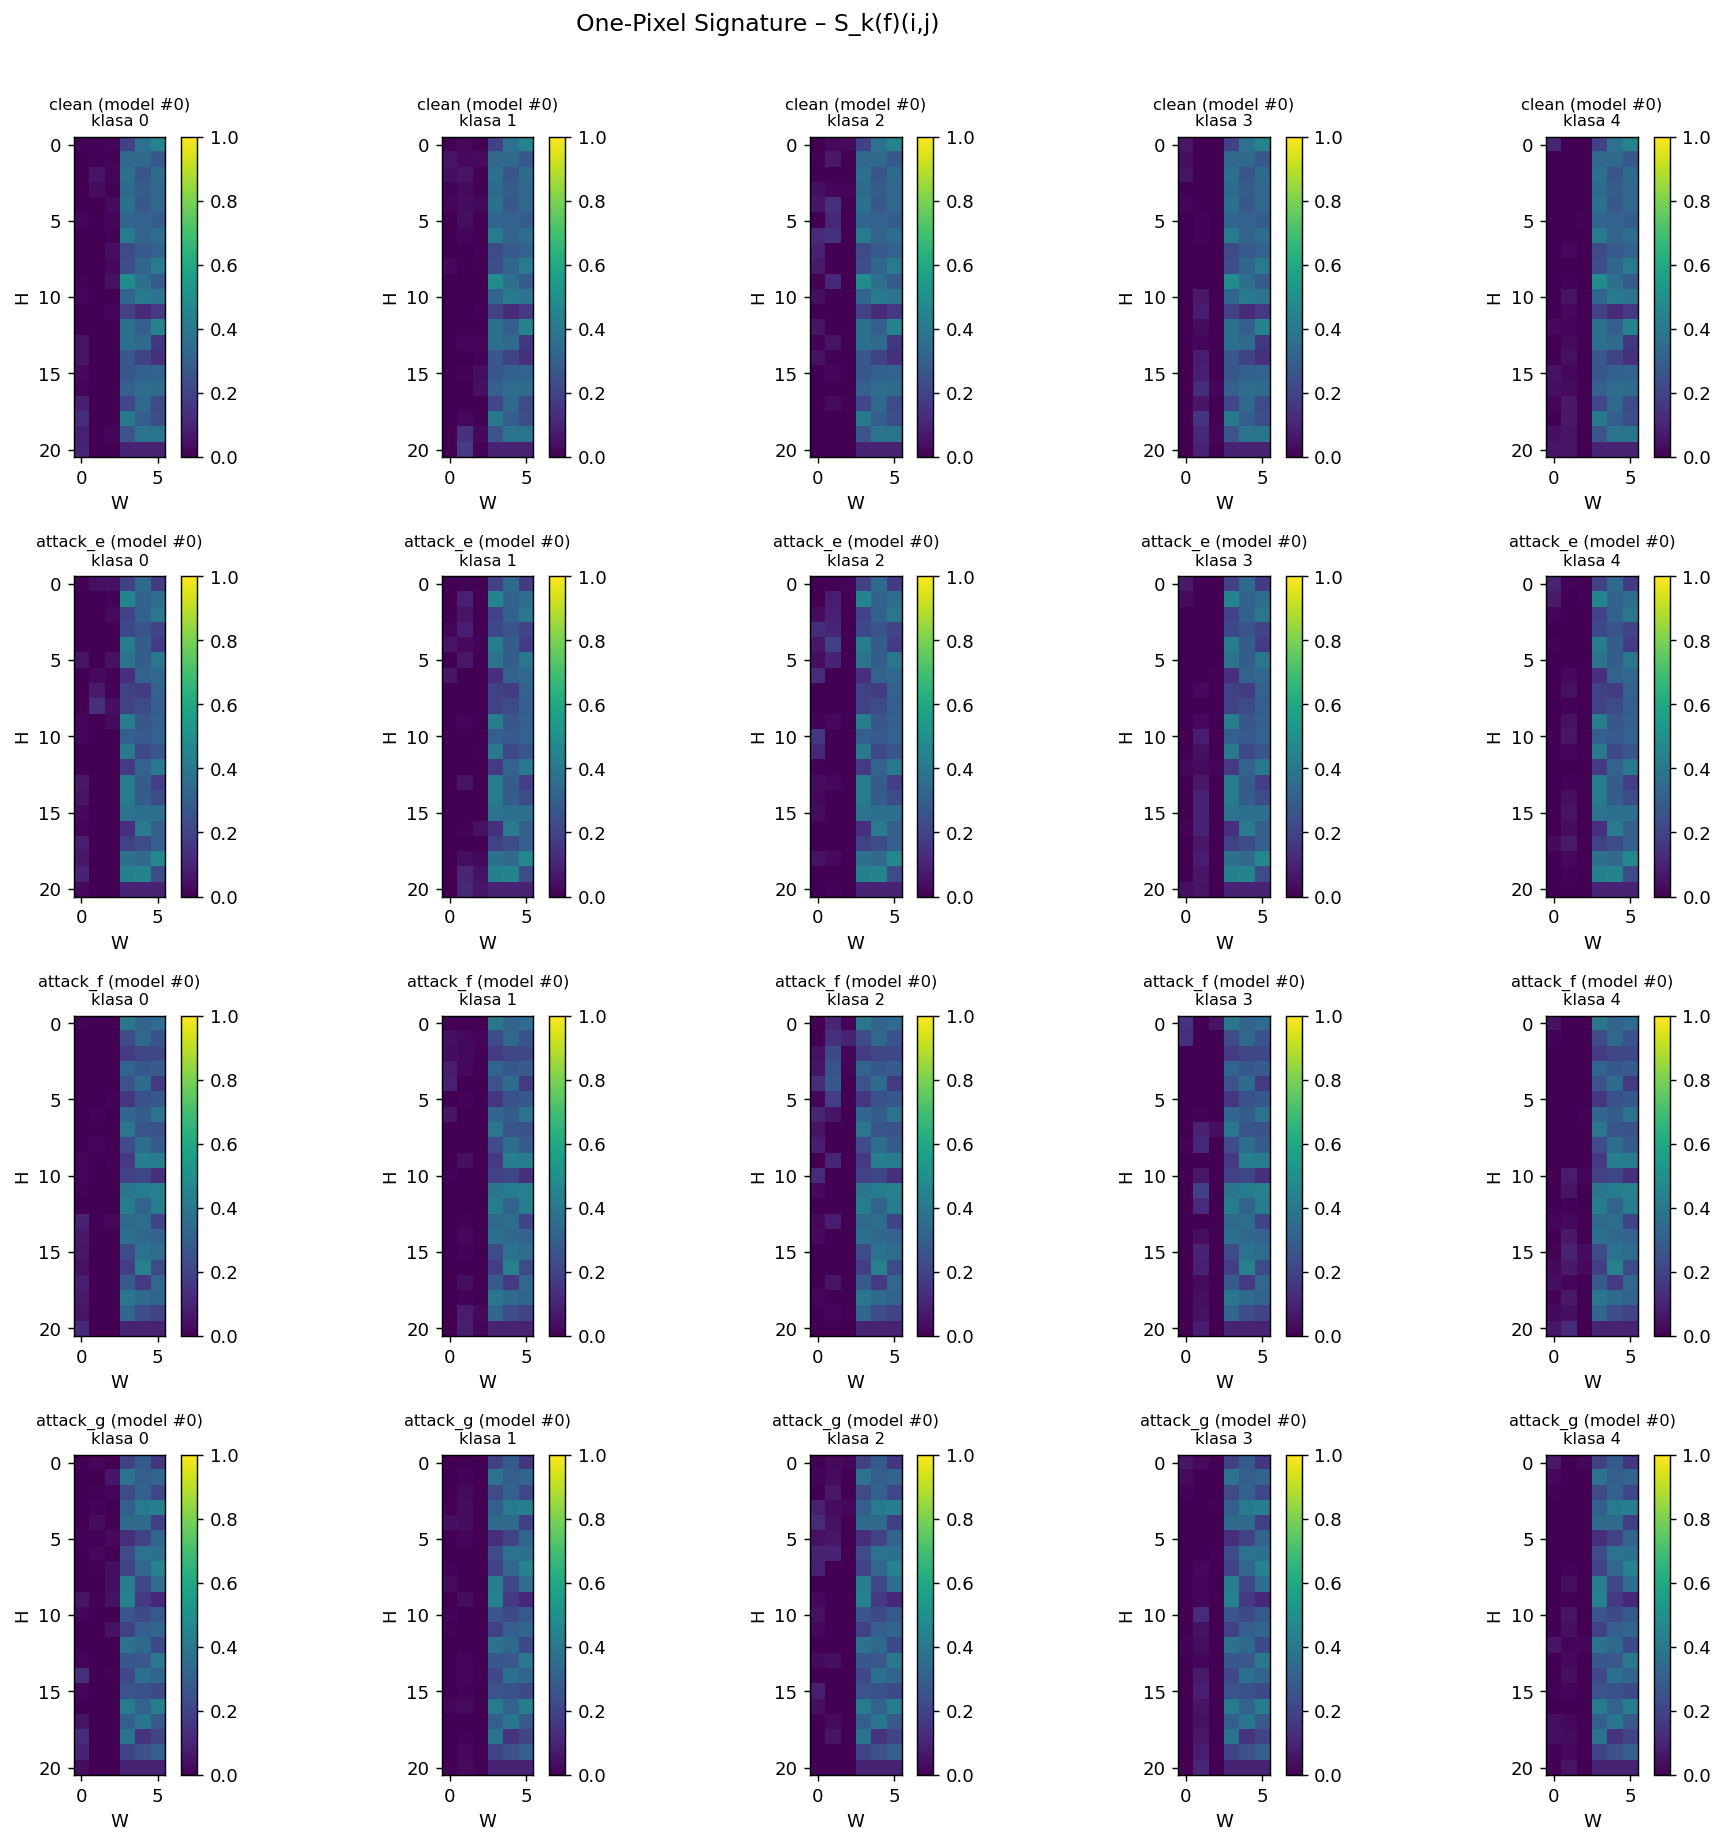
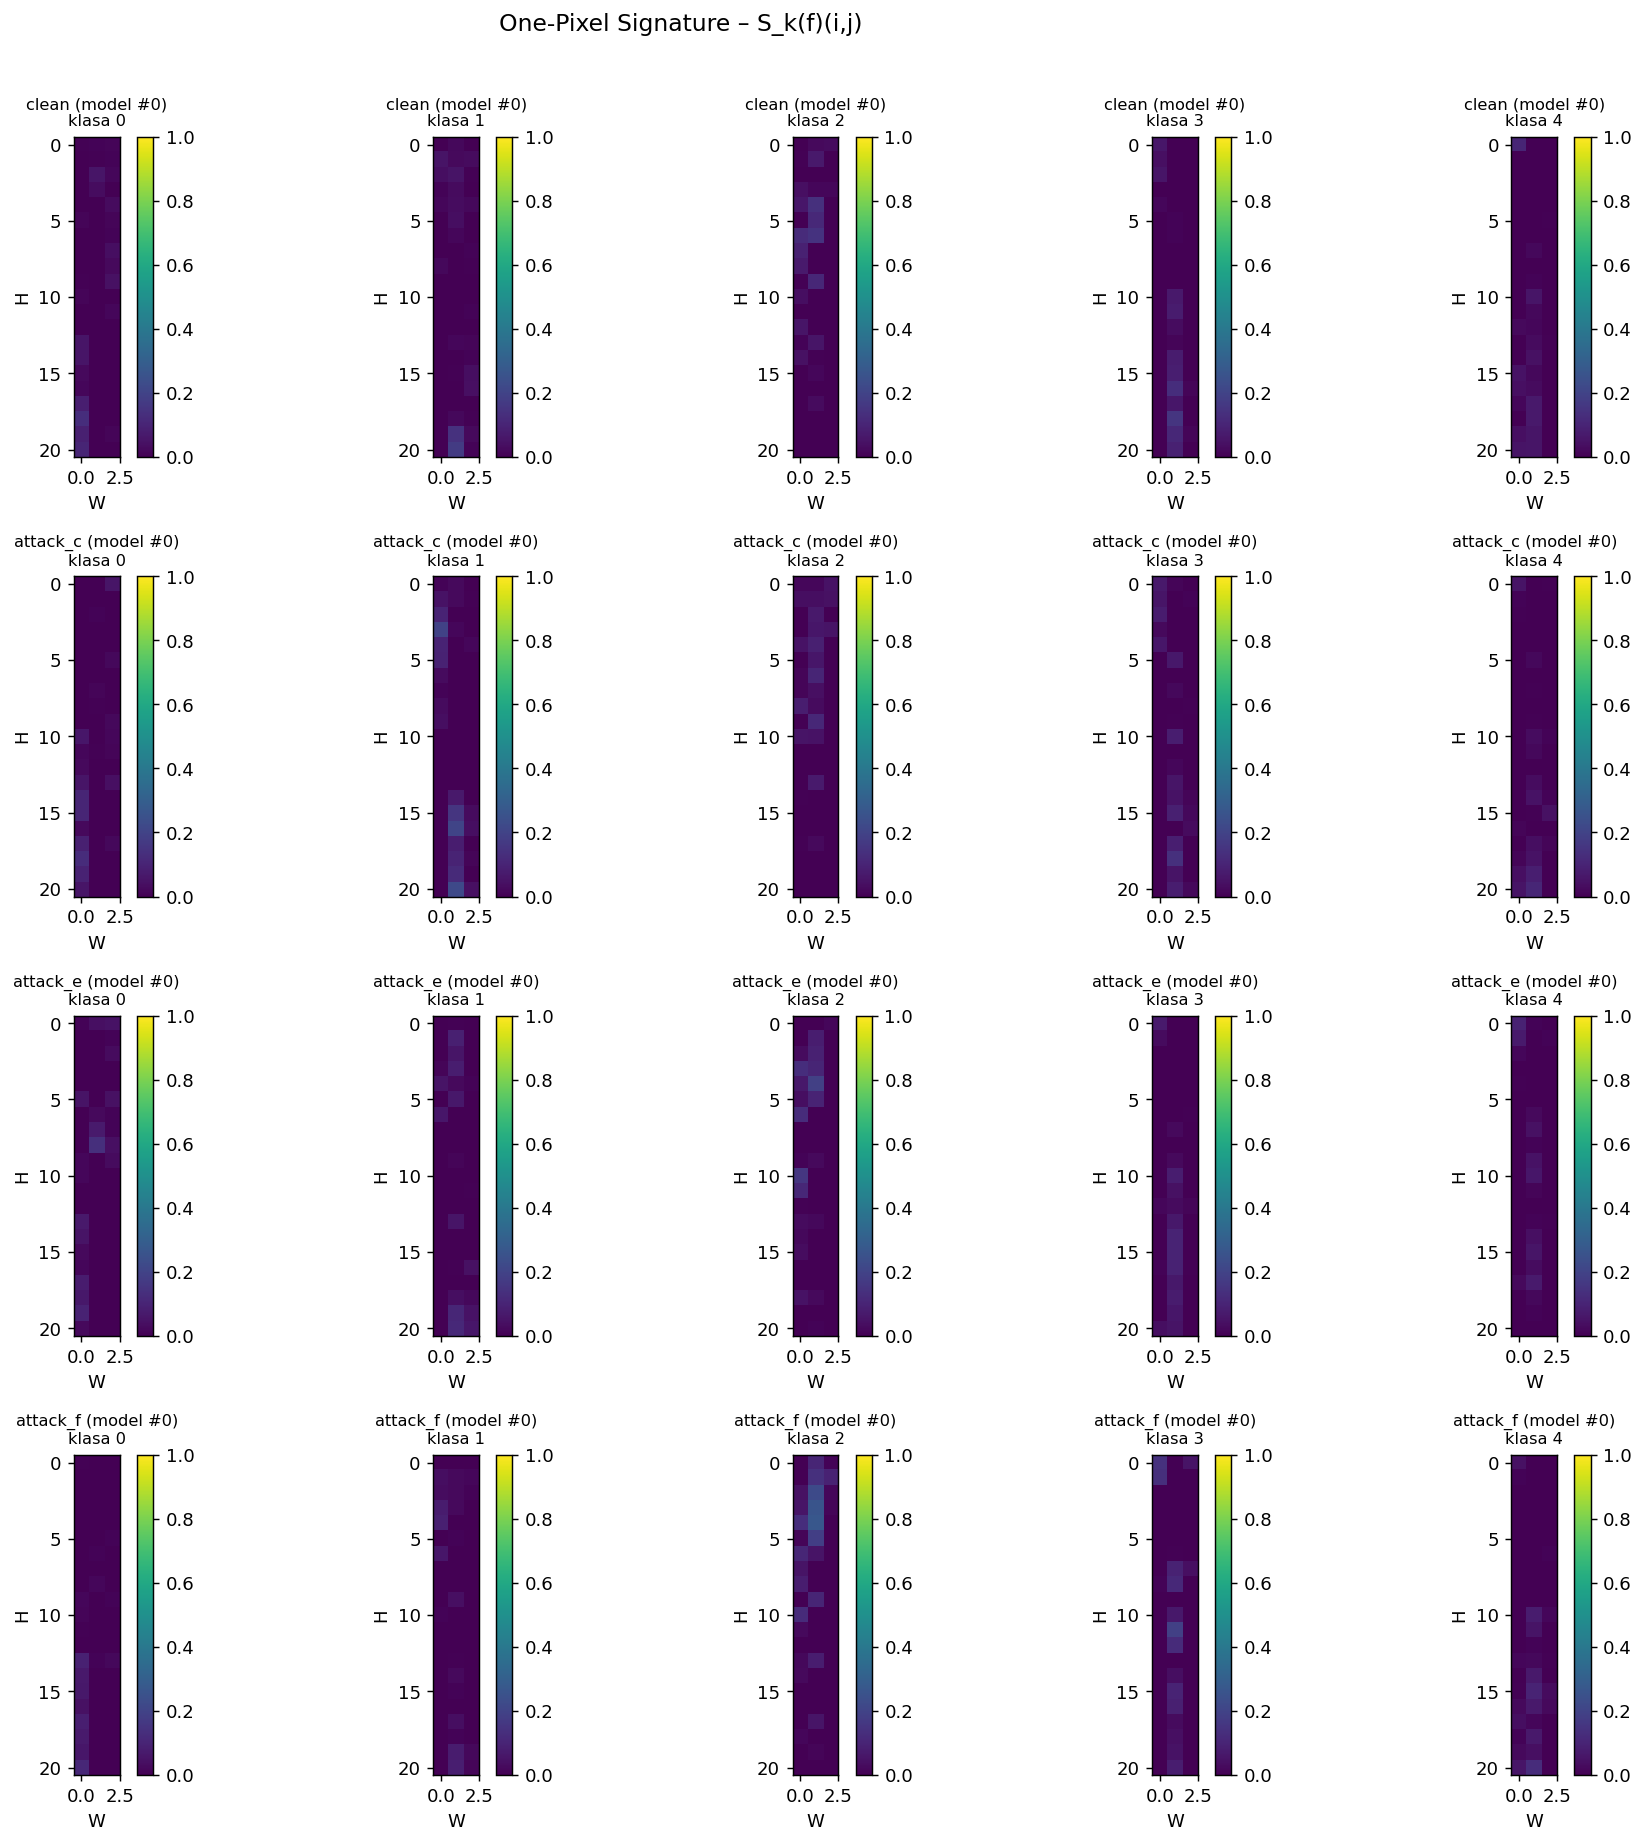
Eksperymenty z atakami na różnych tenowaningowych populacjach

diff --git a/lab3/ls3.py b/lab3/ls3.py
@@ -77,12 +77,10 @@ def load_model_from_image(img_path: str) -> keras.Model:
 
 def one_pixel_signature(model: keras.Model,
                         activation_value: float = 1.0,
-                        H: int = 21, W: int = 3, K: int = 10,
-                        compressed_image: np.ndarray = None) -> np.ndarray:
-    """Oblicza podpis różnicowy z opcjonalnym kanałem obrazu skompresowanego.
+                        H: int = 21, W: int = 3, K: int = 10) -> np.ndarray:
+    """Oblicza podpis różnicowy.
     
-    Shape bez compressed_image: (H, W, K)
-    Shape z compressed_image: (H, 2*W, K) - kolumny 0:W to różnica, W:2W to obraz
+    Shape: (H, W, K)
     """
     # Baseline - pusty obraz
     baseline = np.zeros((1, H, W), dtype=np.float32)
@@ -99,17 +97,7 @@ def one_pixel_signature(model: keras.Model,
     diff_sig = preds - baseline_pred  # Shape: (H*W, K)
     diff_sig_reshaped = diff_sig.reshape(H, W, K)
     
-    # Jeśli mamy skompresowany obraz, dołącz go jako drugi kanał (kolumny W:2W)
-    if compressed_image is not None:
-        # compressed_image powinien być (H, W)
-        # Rozszerz do (H, W, K) - replikuj wartość na wszystkie klasy
-        compressed_expanded = np.tile(compressed_image[:, :, np.newaxis], (1, 1, K))
-        # Połącz poziomo (obok siebie)
-        result = np.concatenate([diff_sig_reshaped, compressed_expanded], axis=1)  # (H, 2*W, K)
-    else:
-        result = diff_sig_reshaped
-    
-    return result
+    return diff_sig_reshaped
 
 
 def _signature_worker(args) -> tuple[int, np.ndarray]:
@@ -117,16 +105,7 @@ def _signature_worker(args) -> tuple[int, np.ndarray]:
     os.environ["TF_CPP_MIN_LOG_LEVEL"] = "3"
     model = load_model_from_image(img_path)
     
-    # Wczytaj obraz (zawiera wagi) i skompresuj
-    img = np.array(Image.open(img_path).convert("L"), dtype=np.float32)
-    # Skaluj intensywności z zakresu [0, 255] na [0.1, 0.5]
-    compressed_img = 0.1 + (img / 255.0) * 0.4  # Shape: (70, 70)
-    
-    # Skompresuj z 70x70 do 21x3 używając interpolacji
-    zoom_factors = (21/70, 3/70)
-    compressed_img_resized = ndimage.zoom(compressed_img, zoom_factors, order=1)  # Shape: (21, 3)
-    
-    sig = one_pixel_signature(model, activation_value, compressed_image=compressed_img_resized)
+    sig = one_pixel_signature(model, activation_value)
     return idx, sig
 
 
@@ -200,14 +179,21 @@ def plot_mean_signatures(all_signatures: dict[str, list[np.ndarray]],
     print(f"[OK] Zapisano średnie heatmapy: {save_path}")
 
 
-def plot_models_comparison(lr_results: dict[str, float], rf_results: dict[str, float], nn_results: dict[str, float], nn_weighted_results: dict[str, float], save_path: str = "models_comparison.png"):
-    """Generuje wykres słupkowy porównujący Regresję Logistyczną, Random Forest, NN bez wag i NN z wagami."""
+def plot_models_comparison(lr_results: dict[str, float], rf_results: dict[str, float], nn_results: dict[str, float], nn_weighted_results: dict[str, float], save_path: str = "models_comparison.png", held_out_attacks: set | None = None):
+    """Generuje wykres słupkowy porównujący Regresję Logistyczną, Random Forest, NN bez wag i NN z wagami.
+    Kolumny odpowiadające held-out atakom są oznaczone szarym tłem."""
+    held_out_attacks = held_out_attacks or set()
     labels = list(lr_results.keys())
     x = np.arange(len(labels))
     width = 0.2  # Szerokość słupków
 
     fig, ax = plt.subplots(figsize=(max(12, len(labels) * 2.2), 5))
-    
+
+    # Szare tło dla kolumn held-out
+    for i, label in enumerate(labels):
+        if label in held_out_attacks:
+            ax.axvspan(i - 2 * width, i + 2 * width, color='lightgray', alpha=0.4, zorder=0)
+
     # Rysowanie słupków dla czterech modeli
     bars_lr = ax.bar(x - 1.5*width, [lr_results[l] for l in labels], width, label='Regresja Logistyczna', color='#e05c5c', alpha=0.85, edgecolor='black', linewidth=0.7)
     bars_rf = ax.bar(x - 0.5*width, [rf_results[l] for l in labels], width, label='Random Forest', color='#5c9be0', alpha=0.85, edgecolor='black', linewidth=0.7)
@@ -215,11 +201,15 @@ def plot_models_comparison(lr_results: dict[str, float], rf_results: dict[str, f
     bars_nn_w = ax.bar(x + 1.5*width, [nn_weighted_results[l] for l in labels], width, label='Neural Network (z wagami)', color='#e0a05c', alpha=0.85, edgecolor='black', linewidth=0.7)
 
     ax.set_xticks(x)
-    ax.set_xticklabels(labels, rotation=25, ha="right")
+    tick_labels = [f"{l} *" if l in held_out_attacks else l for l in labels]
+    ax.set_xticklabels(tick_labels, rotation=25, ha="right")
     ax.set_ylim(0, 1.05)
     ax.axhline(0.5, ls="--", color="gray", label="Poziom losowy (0.5)")
     ax.set_ylabel("Skuteczność rozpoznania")
-    ax.set_title("Porównanie modeli (Holdout)")
+    title = "Porównanie modeli (Holdout)"
+    if held_out_attacks:
+        title += "  (* = atak niewidziany podczas treningu)"
+    ax.set_title(title)
     ax.legend(loc="lower left", fontsize=9)
     
     # Dodanie etykiet tekstowych nad słupkami
@@ -248,14 +238,22 @@ def plot_models_comparison(lr_results: dict[str, float], rf_results: dict[str, f
 
 def main(pythia_root: str = "./pythia",
          max_samples: int = 30,
-         activation_value: float = 1.0):
+         activation_value: float = 1.0,
+         held_out_attacks: list[str] | None = None):
+    """held_out_attacks: ataki wykluczone z treningu, ale ewaluowane na zbiorze testowym."""
+
+    held_out_attacks = set(held_out_attacks or [])
 
     root = Path(pythia_root)
     partitions = sorted([p.name for p in root.iterdir() if p.is_dir()])
-    attacks = [p for p in partitions if p.startswith("attack_") and p not in ["attack_a", "attack_b", "attack_c", "attack_d"]]
-    
+    attacks = [p for p in partitions if p.startswith("attack_")]
+    train_attacks = [a for a in attacks if a not in held_out_attacks]
+
     print(f"Znalezione partycje: {partitions}")
     print(f"Wykryte ataki: {attacks}")
+    if held_out_attacks:
+        print(f"Ataki wykluczone z treningu (held-out): {sorted(held_out_attacks)}")
+        print(f"Ataki używane do treningu: {train_attacks}")
     print(f"Używam {N_WORKERS} rdzeni CPU\n")
 
     # 1. PRZYGOTOWANIE ŚCIEŻEK
@@ -285,7 +283,7 @@ def main(pythia_root: str = "./pythia",
     X_train_full_list.append(np.array([s.flatten() for s in clean_train]))
     y_train_full_list.append(np.zeros(len(clean_train)))
     
-    active_attacks = [att for att in attacks if len(train_signatures[att]) > 0]
+    active_attacks = [att for att in train_attacks if len(train_signatures[att]) > 0]
     if len(active_attacks) > 0:
         for att in active_attacks:
             att_train = train_signatures[att]
@@ -306,7 +304,7 @@ def main(pythia_root: str = "./pythia",
     
     if len(active_attacks) > 0:
         samples_per_attack = len(clean_train) // len(active_attacks)
-        print(f"  -> Wyrównywanie proporcji 50/50: Pobieram po {samples_per_attack} próbek z każdego z {len(active_attacks)} ataków.")
+        print(f"  -> Wyrównywanie proporcji 50/50: Pobieram po {samples_per_attack} próbek z każdego z {len(active_attacks)} ataków (treningowych).")
         
         for att in active_attacks:
             att_train = train_signatures[att]
@@ -369,7 +367,10 @@ def main(pythia_root: str = "./pythia",
     print("Trenowanie Neural Network z wagami (pełny zbiór, class_weights)...", end=" ", flush=True)
     
     clf_nn_weighted = keras.Sequential([
-        keras.layers.Dense(256, activation="relu", input_dim=X_train_full.shape[1]),
+        # keras.layers.Dense(512, activation="sigmoid", input_dim=X_train_full.shape[1]),
+        # keras.layers.BatchNormalization(),
+        # keras.layers.Dropout(0.1),
+        keras.layers.Dense(256, activation="relu"),
         keras.layers.BatchNormalization(),
         keras.layers.Dropout(0.1),
         keras.layers.Dense(128, activation="swish"),
@@ -439,7 +440,8 @@ def main(pythia_root: str = "./pythia",
             rf_results[att] = np.mean(preds_rf_att == 1)
             nn_results[att] = np.mean(preds_nn_att == 1)
             nn_weighted_results[att] = np.mean(preds_nn_weighted_att == 1)
-            print(f"Atak {att:<14} -> LR: {lr_results[att]*100:.1f}% | RF: {rf_results[att]*100:.1f}% | NN: {nn_results[att]*100:.1f}% | NN(wagi): {nn_weighted_results[att]*100:.1f}%")
+            tag = " [HELD-OUT]" if att in held_out_attacks else ""
+            print(f"Atak {att:<14}{tag} -> LR: {lr_results[att]*100:.1f}% | RF: {rf_results[att]*100:.1f}% | NN: {nn_results[att]*100:.1f}% | NN(wagi): {nn_weighted_results[att]*100:.1f}%")
 
     # Przykładowe szczegółowe mapy (wgląd w pojedyncze modele)
     sample_sigs = {"clean (model #0)": train_signatures["clean"][0]}
@@ -449,12 +451,18 @@ def main(pythia_root: str = "./pythia",
             break
                 
     plot_signature_heatmaps(sample_sigs, classes_to_show=[0, 1, 2, 3, 4])
-    plot_models_comparison(lr_results, rf_results, nn_results, nn_weighted_results)
+    plot_models_comparison(lr_results, rf_results, nn_results, nn_weighted_results, held_out_attacks=held_out_attacks)
 
     return clf_lr, clf_rf, clf_nn, clf_nn_weighted, lr_results, rf_results, nn_results, nn_weighted_results
 
 
 if __name__ == "__main__":
     multiprocessing.freeze_support()
-    root = sys.argv[1] if len(sys.argv) > 1 else "./Pythia"
-    main(pythia_root=root, max_samples=500)
+    import argparse
+    parser = argparse.ArgumentParser(description="Pythia model verification pipeline")
+    parser.add_argument("pythia_root", nargs="?", default="./Pythia", help="Ścieżka do katalogu Pythia")
+    parser.add_argument("--max-samples", type=int, default=500, help="Maksymalna liczba próbek na partycję")
+    parser.add_argument("--held-out", nargs="+", default=[], metavar="ATTACK",
+                        help="Ataki wykluczone z treningu, np. --held-out attack_e attack_f")
+    args = parser.parse_args()
+    main(pythia_root=args.pythia_root, max_samples=args.max_samples, held_out_attacks=args.held_out)
